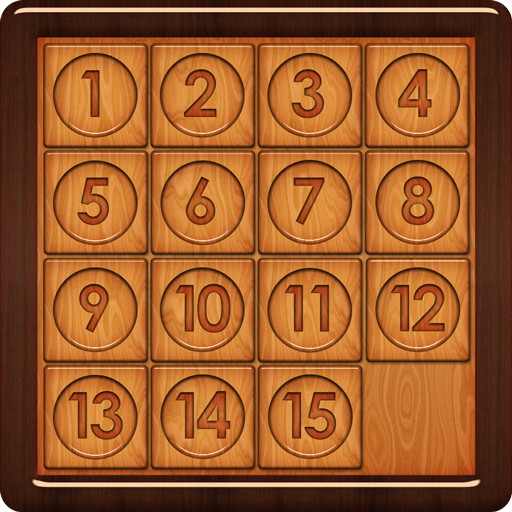
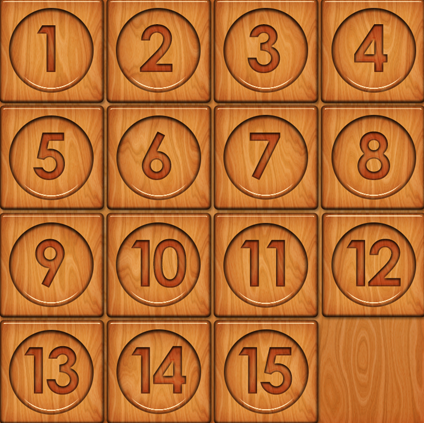
Graphic?

diff --git a/src/main/java/graph/NewGame.java b/src/main/java/graph/NewGame.java
@@ -1,0 +1,52 @@
+package graph;
+
+import javafx.scene.Group;
+import javafx.scene.Scene;
+import javafx.scene.image.Image;
+import javafx.scene.image.WritableImage;
+import javafx.stage.Stage;
+import logic.Logic;
+
+public class NewGame {
+    private Stage stage;
+    IdImage[] idImages;
+    TileView[] tileViews;
+    private Group tileGroup;
+
+    public NewGame(int size, Image img) {
+        stage = new Stage();
+        stage.setTitle("Tag");
+        stage.getIcons().add(new Image("file:res/icon.png"));
+        stage.setHeight(512);
+        stage.setWidth(512);
+        stage.setResizable(false);
+        idImages = new IdImage[size * size];
+        tileViews = new TileView[size * size];
+        int step = 512 / size;
+        Logic logic = new Logic(size);
+        logic.newGame();
+        for (int i = 0; i < size; i++) {
+            for (int j = 0; j < size; j++) {
+                Image cur = new WritableImage(img.getPixelReader(), j * step, i * step, step, step);
+                if (i * size + j == size * size - 1) {
+                    cur = new Image("file:res/null.jpg");
+                }
+                idImages[i * size + j] = new IdImage(i * size + j, cur);
+            }
+        }
+        tileGroup = new Group();
+        for (int i = 0; i < size; i++) {
+            for (int j = 0; j < size; j++) {
+                int pos = i * size + j;
+                tileViews[pos] = new TileView(pos, j * step, i * step, step, idImages[logic.getTiles()[pos]]);
+                tileGroup.getChildren().add(tileViews[pos]);
+
+            }
+        }
+        Scene scene = new Scene(tileGroup);
+        stage.setScene(scene);
+        stage.show();
+    }
+
+
+}

diff --git a/src/main/java/graph/TileView.java b/src/main/java/graph/TileView.java
@@ -1,0 +1,18 @@
+package graph;
+
+import javafx.scene.paint.ImagePattern;
+import javafx.scene.shape.Rectangle;
+
+public class TileView extends Rectangle {
+
+    final int position;
+    IdImage idImage;
+
+    public TileView(int position, int x, int y, int sizePixels, IdImage img) {
+        super(x, y, sizePixels, sizePixels);
+        this.position = position;
+        this.idImage = img;
+        setFill(new ImagePattern(idImage.getImg()));
+    }
+
+}
